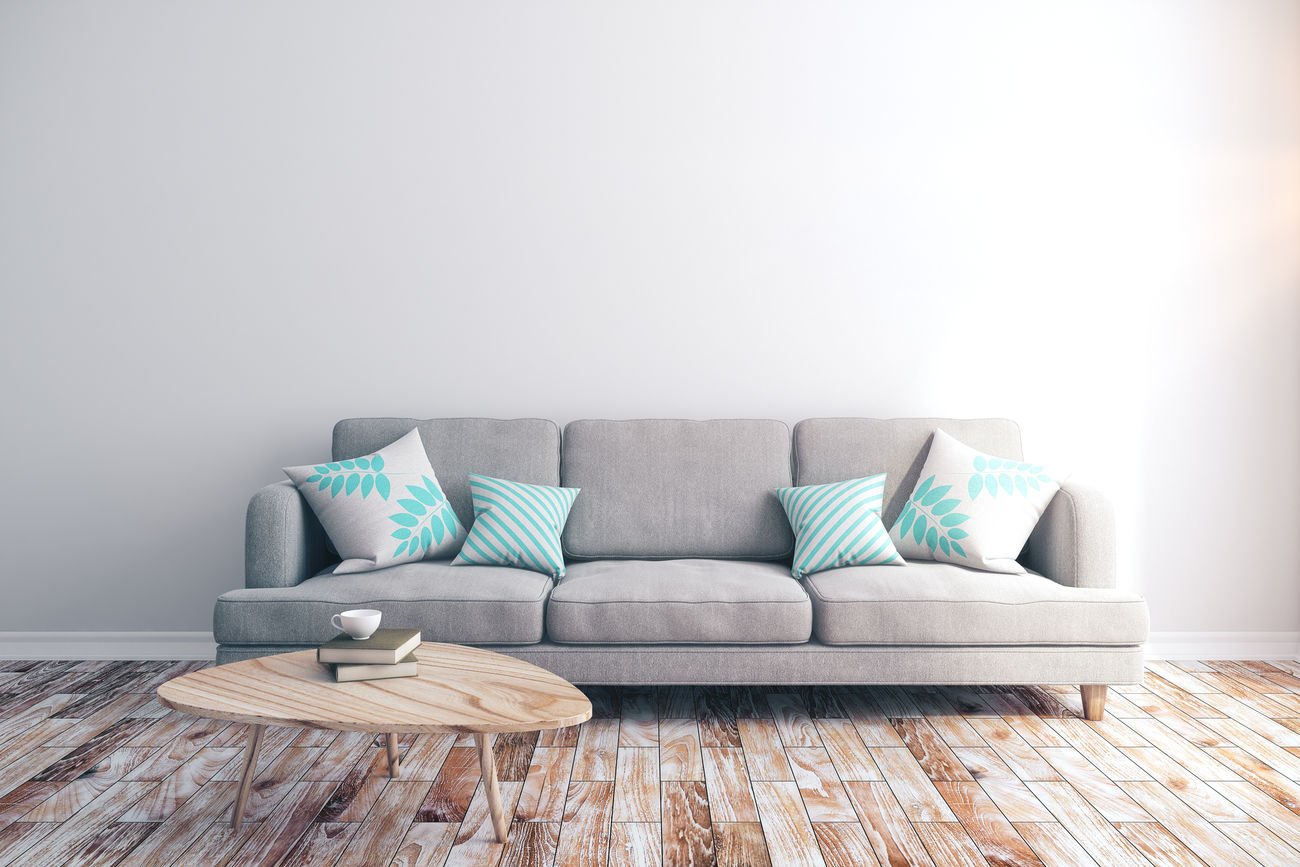
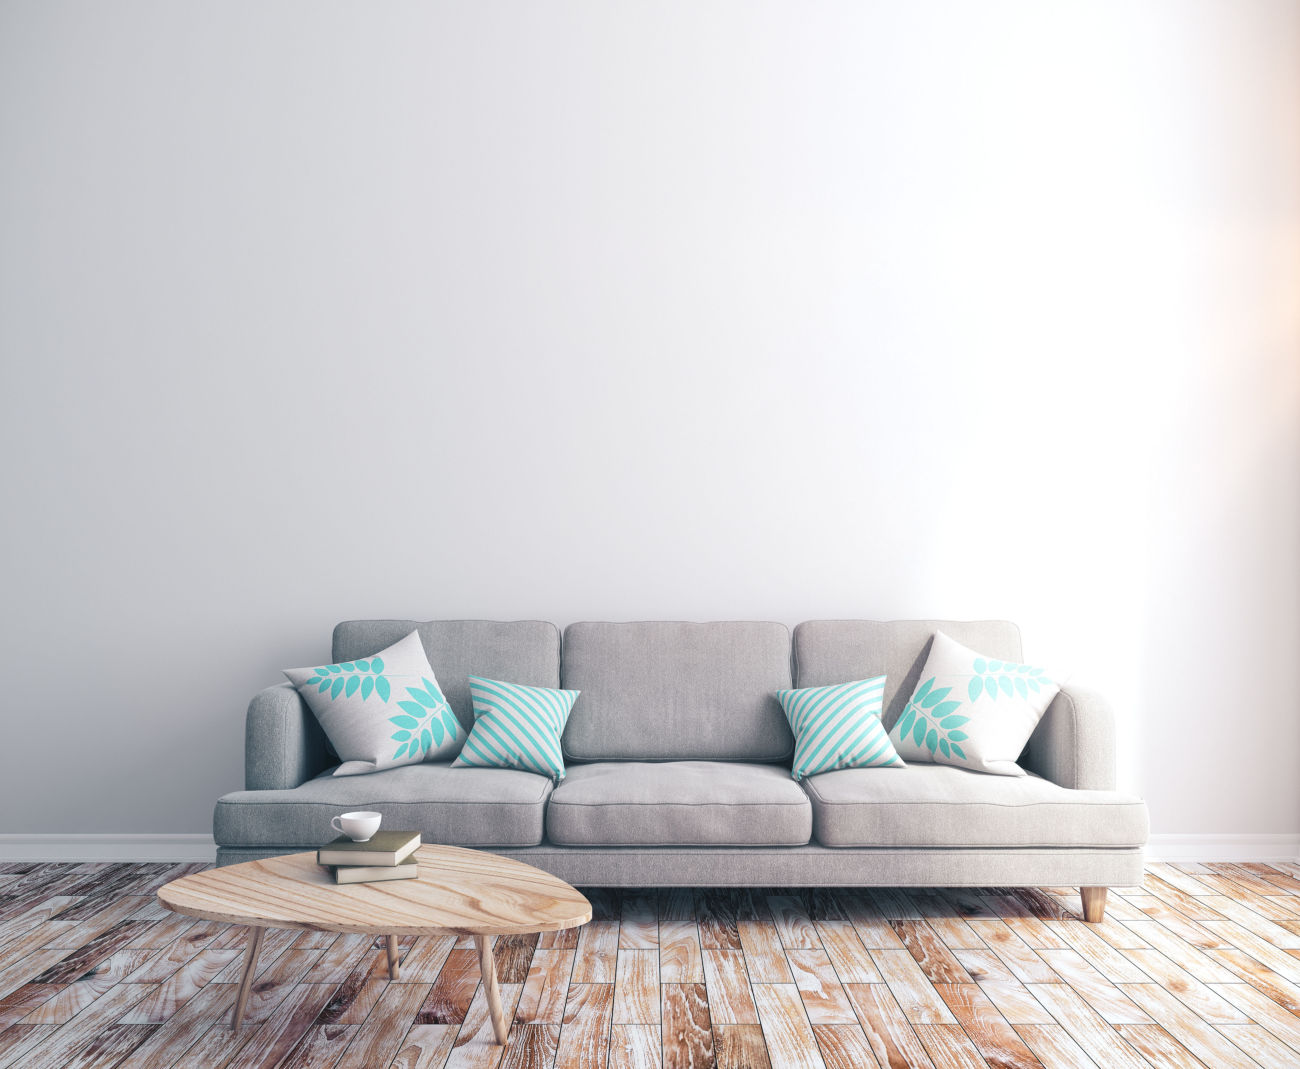
interier preview: set preview areas for each interior

diff --git a/js/modular-generator.js b/js/modular-generator.js
@@ -146,7 +146,7 @@ var modular={
 
 	// move and resize
 
-	svg0.on('mouseenter touchstart mousedown', 'g.module', function(e){
+	mainContainer.on('mouseenter touchstart mousedown', 'g.module', function(e){
 		if (e.type!='mousedown' && !$(this).is('.blocked g, :last-child')) {
 			$('>g', svg0).append(this);
 			return;
@@ -280,70 +280,78 @@ var modular={
 
 	// show preview
 
-	var wallSvg;
-	
+
 	var wallTab=$('.interior.tabs-item').on('show', function(){
-		wallSvg=svg0.clone();
-		$('.module g', wallSvg).remove();
-		$('pattern', wallSvg)[0].id='image1';
-		$('svg', this).replaceWith(wallSvg);
-		wallSizeInp.setMinMax(Math.max(wallSizeInp[0].min, Math.ceil(h2w.w))).trigger('input');
-
-		$('.module', wallSvg).on('mousedown touchstart', function(e){
-			var touch = e.type=='touchstart' && e.originalEvent.changedTouches[0];
-			if (touch && !$(el).is(':hover')) return;
-			e.preventDefault();
-			wallTab.addClass('grabbing');
-			var x0=(touch||e).pageX;
-			var y0=(touch||e).pageY;
-			var id=touch && touch.identifier;
-
-			var pos0=$('>g', wallSvg)[0].getBoundingClientRect();
-			var bBox=wallSvg[0].parentNode.getBoundingClientRect();
-			var left=parseInt(wallSvg.css('left'));
-			var top=parseInt(wallSvg.css('top'));
-			function change(e){
-				//
-				var touch=e;
-				if (e.type=='touchmove') {
-					let touches=e.originalEvent.changedTouches;
-					for (var i = 0; i < touches.length; i++) {
-						if (touches[i].identifier===id) touch=touches[i]
-					}
-					if (touch==e) return;
-				} else {
-					e.preventDefault();
-				}
-				var dx=touch.pageX-x0;
-				var dy=touch.pageY-y0;
-
-				dx=Math.max(dx, bBox.left-pos0.left);
-				dy=Math.max(dy, bBox.top-pos0.top);
-
-				dx=Math.min(dx, bBox.right-pos0.right);
-				dy=Math.min(dy, bBox.bottom-pos0.bottom);
-
-				wallSvg.css({left: left+dx, top: top+dy});
-			}
-
-			$(window).on(touch?'touchmove':'mousemove', change)
-			 .on('mouseup touchcancel touchend blur', function(){
-			 	$(window).off('mousemove touchmove', change);
-				wallTab.removeClass('grabbing');
-			})
-		})
+		$('.interior-item.active').click();
 	});
+
+	mainContainer.on('show', function(){
+		$('.canv_cel').append(svg0);
+	});
+
+	wallTab.on('mousedown touchstart', '.module', function(e){
+		var touch = e.type=='touchstart' && e.originalEvent.changedTouches[0];
+		if (touch && !$(el).is(':hover')) return;
+		e.preventDefault();
+		wallTab.addClass('grabbing');
+		var x0=(touch||e).pageX;
+		var y0=(touch||e).pageY;
+		var id=touch && touch.identifier;
+
+		var pos0=$('>g', svg0)[0].getBoundingClientRect();
+		var place=svg0.closest('div');
+		var bBox=place[0].getBoundingClientRect();
+		var left=parseInt(place.css('--x'));
+		var top=parseInt(place.css('--y'));
+		function change(e){
+			//
+			var touch=e;
+			if (e.type=='touchmove') {
+				let touches=e.originalEvent.changedTouches;
+				for (var i = 0; i < touches.length; i++) {
+					if (touches[i].identifier===id) touch=touches[i]
+				}
+				if (touch==e) return;
+			} else {
+				e.preventDefault();
+			}
+			var dx=touch.pageX-x0;
+			var dy=touch.pageY-y0;
+
+			dx=Math.max(dx, bBox.left-pos0.left);
+			dy=Math.max(dy, bBox.top-pos0.top);
+
+			dx=Math.min(dx, bBox.right-pos0.right);
+			dy=Math.min(dy, bBox.bottom-pos0.bottom);
+
+			place.css({
+				"--x": left+dx/bBox.width*100+'%',
+				"--y": top+dy/bBox.height*100+'%'
+			});
+		}
+
+		$(window).on(touch?'touchmove':'mousemove', change)
+		 .on('mouseup touchcancel touchend blur', function(){
+		 	$(window).off('mousemove touchmove', change);
+			wallTab.removeClass('grabbing');
+		})
+	})
 
 	var wallSizeInp=$('.interior-sizes input').on('input', function(e){
 		wallSizeInp.val(this.value).setBg();
-		wallSvg.width(h2w.w/this.value*100+'%')
+		svg0.closest('div').css('--size', h2w.w/this.value*100+'%')
 	});
 
-	$('.interior-item').click(function(){
-		$('img', wallTab).prop('src', this.dataset.interior);
-		var minMax=this.dataset.size.split(/[\,,\s]+/);
-		wallSizeInp.setMinMax(minMax[0], minMax[1]).trigger('input');
-	}).filter('.active').click();
+	$('.interior-item').each(function(){
+		var place=$('<div/>').appendTo(wallTab);
+		$(this).click(function(){
+			$('img', wallTab).prop('src', this.dataset.interior);
+			$('.active', wallTab).removeClass('active');
+			svg0.appendTo(place.addClass('active'));
+			var minMax=this.dataset.size.split(/[\,,\s]+/);
+			wallSizeInp.setMinMax(minMax[0], minMax[1]).trigger('input');
+		})
+	})//.filter('.active').click();
 
 	$(window).on('resize', resizeCanvas)
 //})()

diff --git a/css/modular-pictures.css b/css/modular-pictures.css
@@ -129,15 +129,54 @@
 	color: #0008;
 }
 
+.interior.tabs-item>div{
+	width: 80%;
+	height: 50%;
+	left: 10%;
+	top: 0;
+	position: absolute;
+	--x: 0%;
+	--y: 0%;
+	--size: 50%;
+	filter: drop-shadow(-2px 2px 3px #0009);
+}
+
+.interior.tabs-item>div:not(.active) {
+	display: none;
+}
+/* interior preview areas */
+
+.interior.tabs-item>div:nth-of-type(1){
+	top: 1%;
+}
+.interior.tabs-item>div:nth-of-type(2){
+	top: 3%;
+	left: 5%;
+	width: 90%;
+	height: 53%;
+}
+.interior.tabs-item>div:nth-of-type(3){top: 10%;}
+.interior.tabs-item>div:nth-of-type(4){
+	left: 17%;
+	width: 68%;
+	height: 47%;
+	top: 2%;
+}
+.interior.tabs-item>div:nth-of-type(5){
+	left: 13%;
+	width: 74%;
+	top: 1%;
+}
+.interior.tabs-item>div:nth-of-type(6){
+	top: 1%;
+}
+
 .interior.tabs-item svg{
 	position: absolute;
-	left: 0;
-	top: 0;
-	margin: 30% 50%;
+	left: calc(var(--x) + 50%);
+	top: calc(var(--y) + 50%);
 	transform: translate(-50%, -50%);
-	width: 50%;
-	/* max-height: 50%; */
-	filter: drop-shadow(-2px 2px 3px #0009);
+	width: var(--size);
 }
 .interior.grabbing *{
 	cursor: grabbing !important;
@@ -225,12 +264,15 @@ g.module g rect:hover {
 	stroke-dasharray: 3em 5em;
 	stroke-linecap: square;
 }
-.modular g.module>rect {
+.tabs-content g.module>rect {
 	fill: url(#image);
 }
+
 .interior g.module>rect {
-	fill: url(#image1);
 	cursor: grab;
+}
+.interior g.module g {
+	display: none;
 }
 
 input[type=range] {

diff --git a/templates1/index.html b/templates1/index.html
@@ -763,7 +763,6 @@
                                 </div>
                                 <div class="interior tabs-item tabs-item2">
                                     <img src="../img/interior/img3_big.jpg" alt="">
-                                    <svg></svg>
                                 </div>
                             </div>
                         </div>
@@ -937,7 +936,7 @@
                                                     </div>
                                                 </div>
                                                 <div>
-                                                    <div class="interior-item" data-interior="../img/interior/img2_big.jpg" data-size="360, 500">
+                                                    <div class="interior-item" data-interior="../img/interior/img2_big.jpg" data-size="250, 350">
                                                         <i class="icon-down-arrow"></i>
                                                         <img src="../img/interior/img2_s.jpg" alt="">
                                                     </div>
